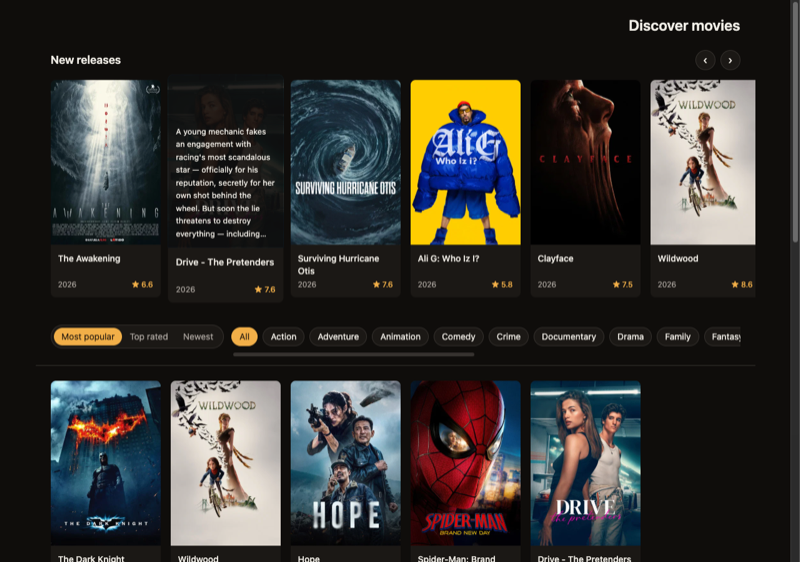
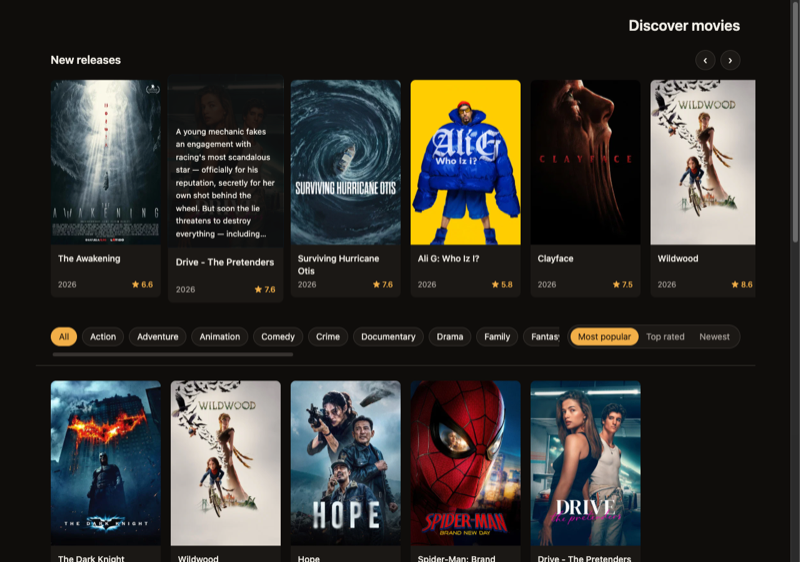
docs(T10): refresh screenshot for sort on the right

Changed region(s): [[0.0625, 0.5747, 0.9375, 0.6352]]

diff --git a/README.md b/README.md
@@ -27,7 +27,7 @@ Vite, React 19, TypeScript, Tailwind CSS v4 (with tw-animate-css for enter anima
 - **TanStack Query for fetching.** It caches each filter and sort combination and keeps the previous results on screen (dimmed) while the next request loads, so the grid doesn't flash empty.
 - **Typed TMDB client.** `@lorenzopant/tmdb` gives typed params and responses and accepts a v3 API key. All TMDB access goes through `src/api/tmdb.ts`, so swapping the package only touches one file.
 - **New releases row.** A separate request (newest first, no genre filter) fills a sideways-scrolling row at the top. Trackpad, touch and the arrow buttons scroll it, and cards snap to the left edge.
-- **Controls on one line.** The sort is a segmented control, so all three options are visible and switching is one click. The genre chips sit next to it and scroll sideways with a visible scrollbar; "All" clears the filter. The bar stays pinned to the top while the grid scrolls.
+- **Controls on one line.** The genre chips scroll sideways with a visible scrollbar; "All" clears the filter. The sort sits on the right as a segmented control, so all three options are visible and switching is one click. The bar stays pinned to the top while the grid scrolls.
 - **Cards.** Fixed-width cards in a wrapping flex layout, so cards keep the poster's 2:3 shape at any screen width. Hover or keyboard focus scales the card up and shows the overview. Each card shows the release year and rating (or "No rating" when there are no votes).
 - **Tests on the logic, not the markup.** Vitest covers the request params, the sort and the URL parsing, which are pure functions.
 
